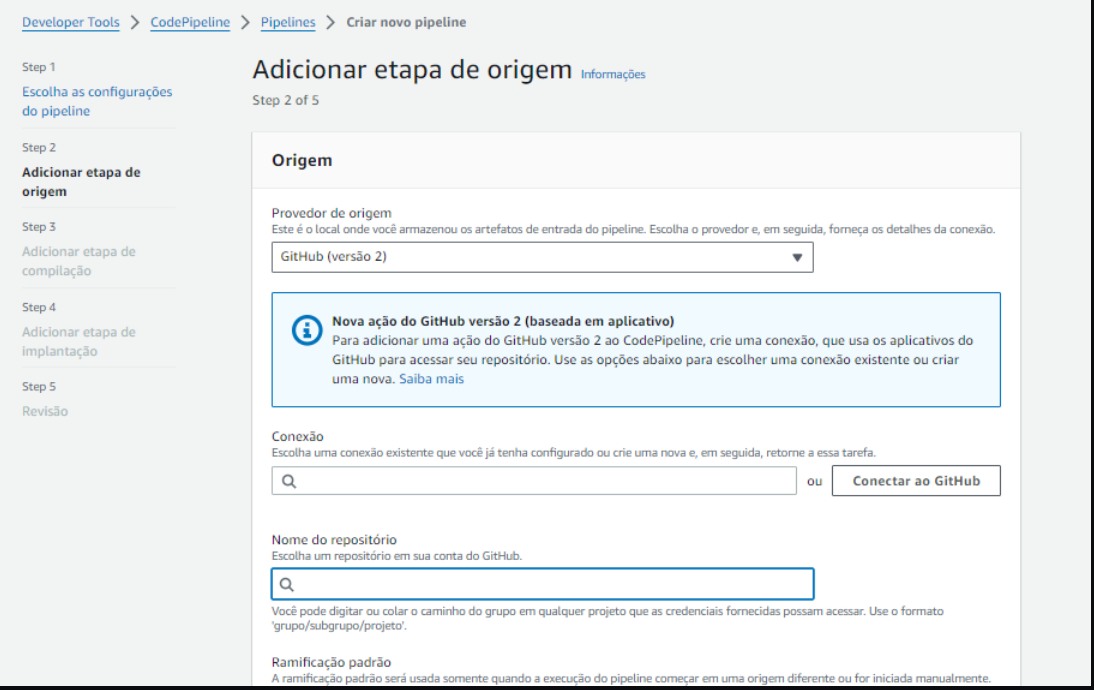
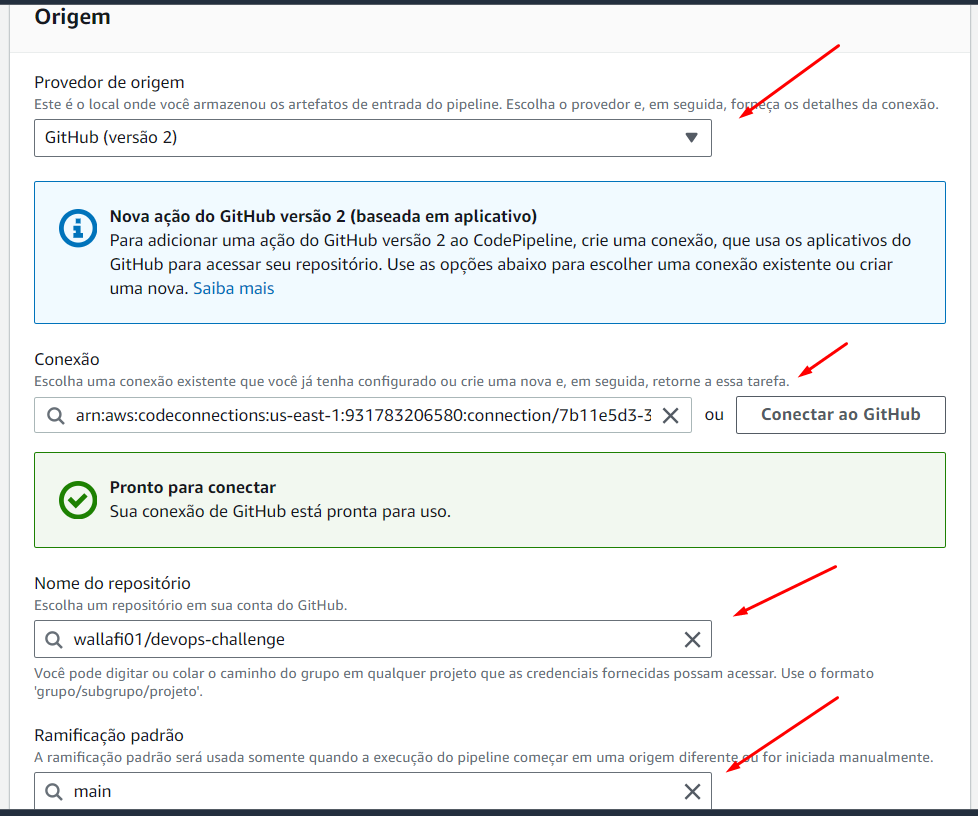
add alteracaoes

Changed region(s): [[0.0, 0.0, 1.0, 1.0], [0.8282, 0.0609, 0.8589, 0.0913], [0.7055, 0.7609, 0.7362, 0.7913]]

diff --git a/readme.md b/readme.md
@@ -104,13 +104,10 @@ A infraestrutura será criada pelo Terraform e o AWS CodeDeploy será responsáv
 
   ![alt text](./images/Screenshot_5.png)
 
-  Adicionar repositorio , precisara autenticar ao github 
+  Adicionar repositorio , precisara autenticar ao github  
 
   ![alt text](./images/Screenshot_6.png)
 
-  Adicionar a branch
-
-  ![alt text](./images/Screenshot_7.png)
 
   No acionador manter essas configurações
 
